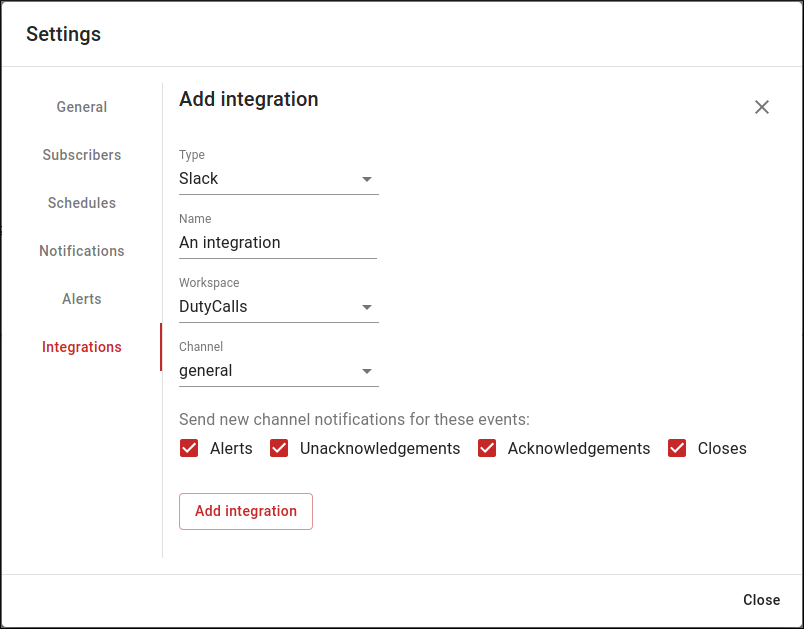
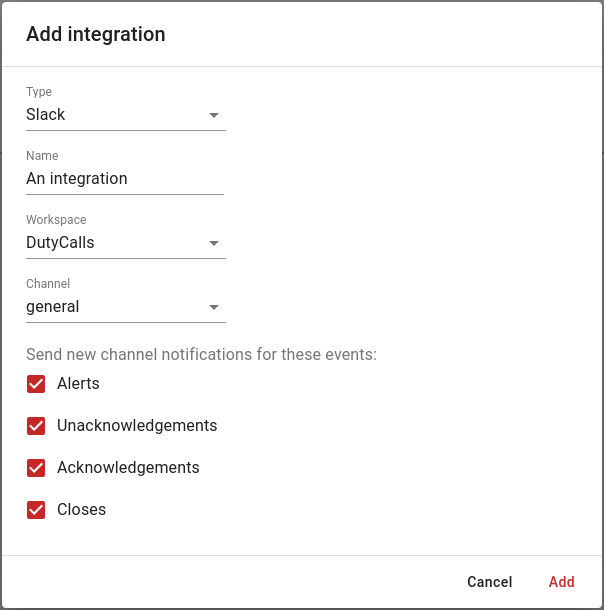
Deployed e36ea26 with MkDocs version: 1.1.2

diff --git a/integrations/slack/index.html b/integrations/slack/index.html
@@ -1056,7 +1056,7 @@
 <p>Now that a Slack workspace has been mapped to your DutyCalls workspace, something else needs to be done before messages (event updates) are posted to Slack and that is adding a channel integration within DutyCalls.</p>
 <ol>
 <li>
-<p>Navigate to <strong>Channels</strong> &gt; Click the <strong>Settings</strong> button of your desired channel &gt; Select the <strong>Integrations</strong> tab &gt; Click on the <strong>+</strong> button to add a new integration.</p>
+<p>Navigate to <strong>Channels</strong> &gt; Click on the <strong>Settings</strong> button of your desired channel &gt; Select the <strong>Integrations</strong> tab &gt; Click on the <strong>Add integration</strong> button to add a new integration.</p>
 </li>
 <li>
 <p>Select <strong>Slack</strong> from the dropdown list. Enter a friendly <strong>Name</strong> for the integration. This could be anything, as long as it clarifies what integration is involved. After that, select the correct Slack <strong>Workspace</strong> and the desired Slack <strong>Channel</strong>. Lastly, select the events from which you want to receive updates for.</p>

diff --git a/integrations/microsoft-teams/index.html b/integrations/microsoft-teams/index.html
@@ -1058,7 +1058,7 @@
 <p>Now that the DutyCalls connector has been configured on a Microsoft Teams channel, something else needs to be done before messages (event updates) are posted to Microsoft Teams and that is adding a channel integration within DutyCalls.</p>
 <ol>
 <li>
-<p>Navigate to <strong>Channels</strong> &gt; Click the <strong>Settings</strong> button of your desired channel &gt; Select the <strong>Integrations</strong> tab &gt; Click on the <strong>+</strong> button to add a new integration.</p>
+<p>Navigate to <strong>Channels</strong> &gt; Click on the <strong>Settings</strong> button of your desired channel &gt; Select the <strong>Integrations</strong> tab &gt; Click on the <strong>Add integration</strong> button to add a new integration.</p>
 </li>
 <li>
 <p>Select <strong>Microsoft Teams</strong> from the dropdown list. Enter a friendly <strong>Name</strong> for the integration. This could be anything, as long as it clarifies what integration is involved. After that, enter the <strong>URL</strong> you copied earlier. Lastly, select the events from which you want to receive updates for.</p>

diff --git a/integrations/generic-webhook/index.html b/integrations/generic-webhook/index.html
@@ -1023,7 +1023,7 @@
 <p>The only requirement for this form of integration is that you have a valid webhook URL to which DutyCalls can post event updates.</p>
 <ol>
 <li>
-<p>Navigate to <strong>Channels</strong> &gt; Click the <strong>Settings</strong> button of your desired channel &gt; Select the <strong>Integrations</strong> tab &gt; Click on the <strong>+</strong> button to add a new integration.</p>
+<p>Navigate to <strong>Channels</strong> &gt; Click on the <strong>Settings</strong> button of your desired channel &gt; Select the <strong>Integrations</strong> tab &gt; Click on the <strong>Add integration</strong> button to add a new integration.</p>
 </li>
 <li>
 <p>Select <strong>Generic Webhook</strong> from the dropdown list. Enter a friendly <strong>Name</strong> for the integration. This could be anything, as long as it clarifies what integration is involved. After that, enter the webhook URL. Lastly, select the events from which you want to receive updates for.</p>
